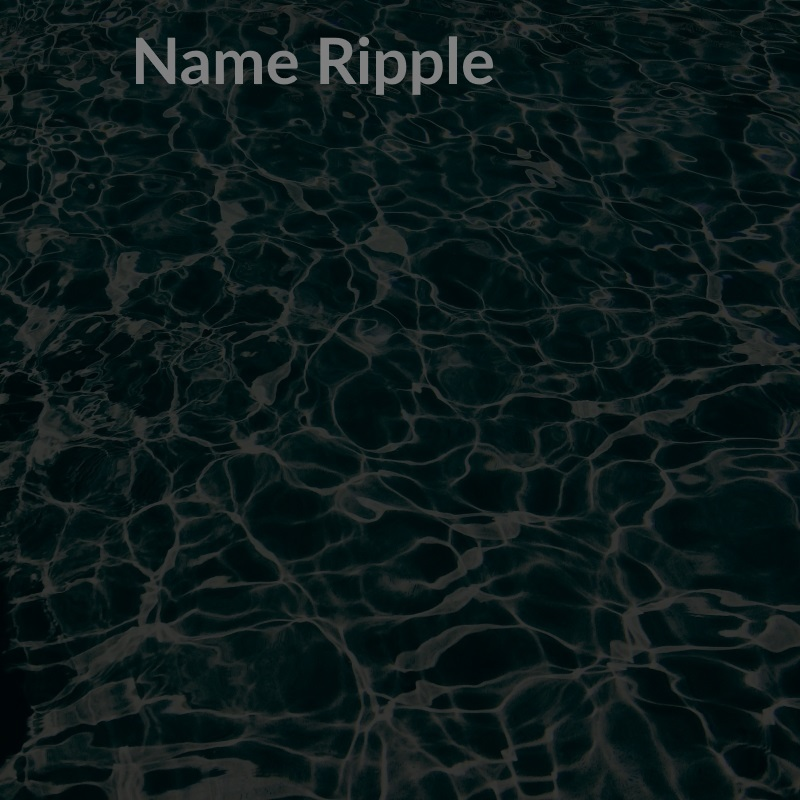
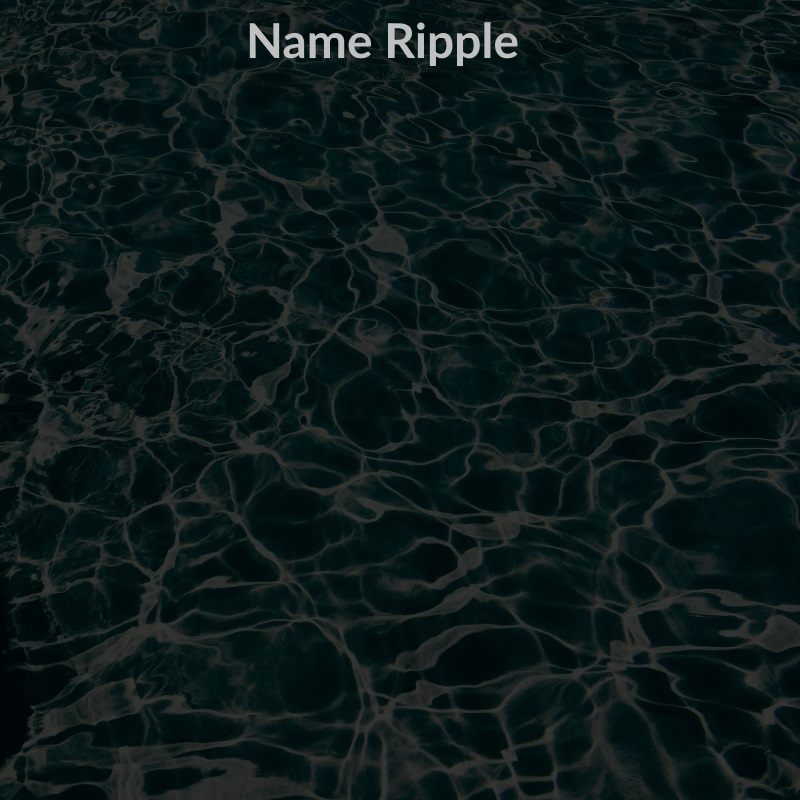
tweek

Changed region(s): [[0.1562, 0.0312, 0.6562, 0.125]]

diff --git a/styles/main.css b/styles/main.css
@@ -29,21 +29,24 @@ body:before {
  
 }
 .searchArea {
-    max-width: 800px;
+    
     top: 200px;
     position: fixed;
     bottom: 0;
     right: 0;
     width: 100%;
+    max-width: 80vw;
+    height: 100%;
    background-size: cover;
-	height: 100%;
+   margin-right: 12vw;
+	
 	text-align: center; 
 }
 
 .serchCrit {
     font-family: 'Lato', sans-serif;
     background-color: floralwhite;
-    margin-top: 250px; outline: none; width: 20%; padding:.075vw; font-size: 3vw; border-style:solid; border-radius:1.6vw; border-width:.6vw; border-color:#990000; text-align:center;   } 
+    margin-top: 150px; outline: none; width: 20%; padding:.075vw; font-size: 3vw; border-style:solid; border-radius:1.6vw; border-width:.6vw; border-color:#990000; text-align:center;   } 
 		 .css-input:focus { outline:none; } 
          
          

diff --git a/js/ripSettings.js b/js/ripSettings.js
@@ -33,27 +33,15 @@ $(document).ready(function () {
         var strength = .05 + Math.random() * .001;
         $el.ripples('drop', x, y, dropRadius, strength);
     }, 1500);
-
-
-
-    $(".search").click(function () {
-        $(".searchArea").animate({ "top": "-220px" }, "slow");
-    });
-
-
-
-    $(".search").click(function () {
-        $(".someText").hide(0).delay(800).fadeIn();
-    });
     
     
-    // $(document).ready(function () {
-    //     setTimeout(function () {
-    //         $(".backfade").animate({
-    //             "opacity": "0.55"
-    //         }, 4000);
-    //     }, 12000);
+    $(document).ready(function () {
+        setTimeout(function () {
+            $(".backfade").animate({
+                "opacity": "0.75"
+            }, 6000);
+        }, 12000);
 
-    // });
+    });
 
 });

diff --git a/js/serchDir/searchDir.js b/js/serchDir/searchDir.js
@@ -24,7 +24,7 @@ $scope.results.push(arr1[i] + arr2[j] + $scope.domainExt);
                 } console.log($scope.results);
           };  
             $(".search").click(function () {
-                $(".searchArea").animate({ "top": "-220px" }, "slow");
+                $(".searchArea").animate({ "top": "-120px" }, "slow");
             });
 
             $(".search").click(function () {
